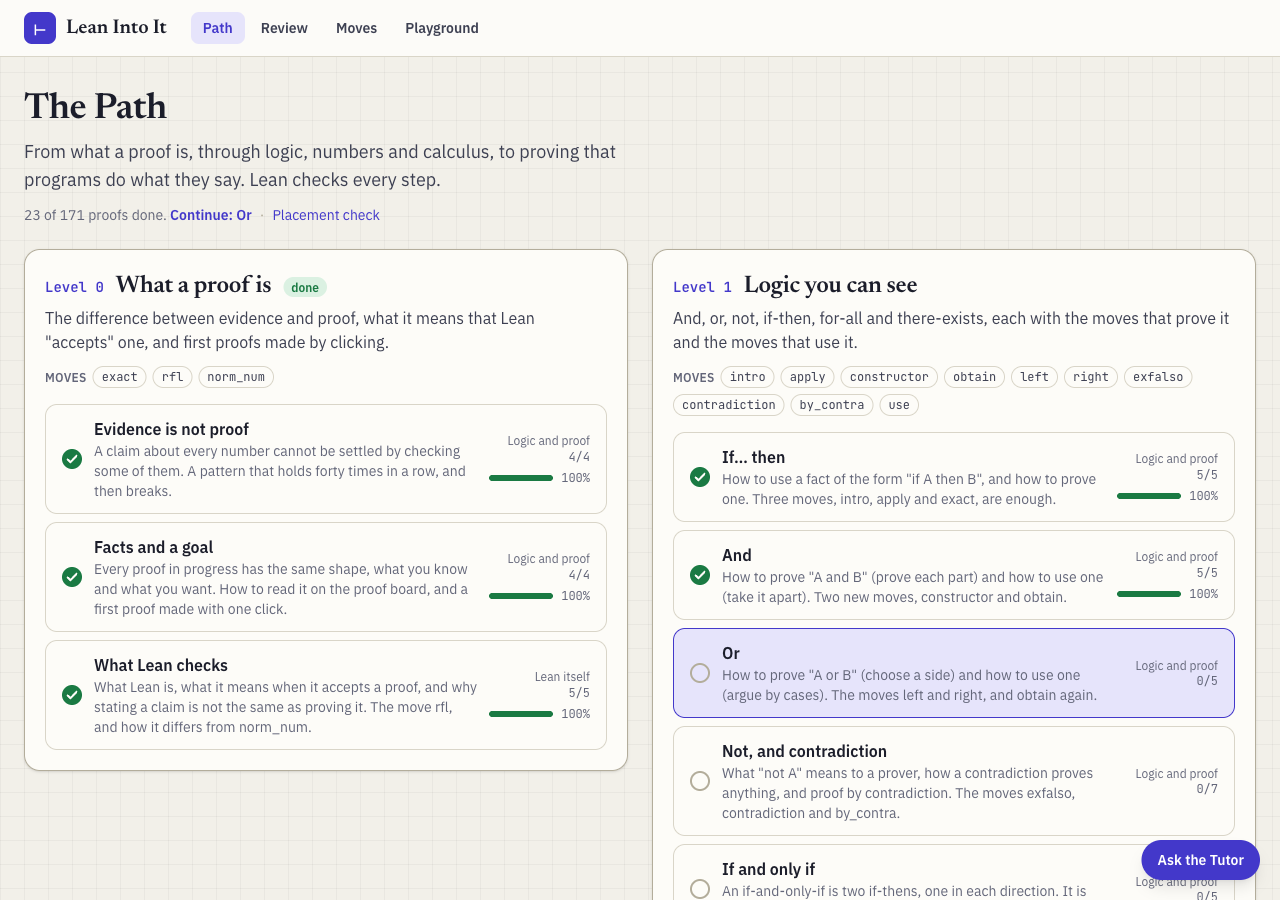
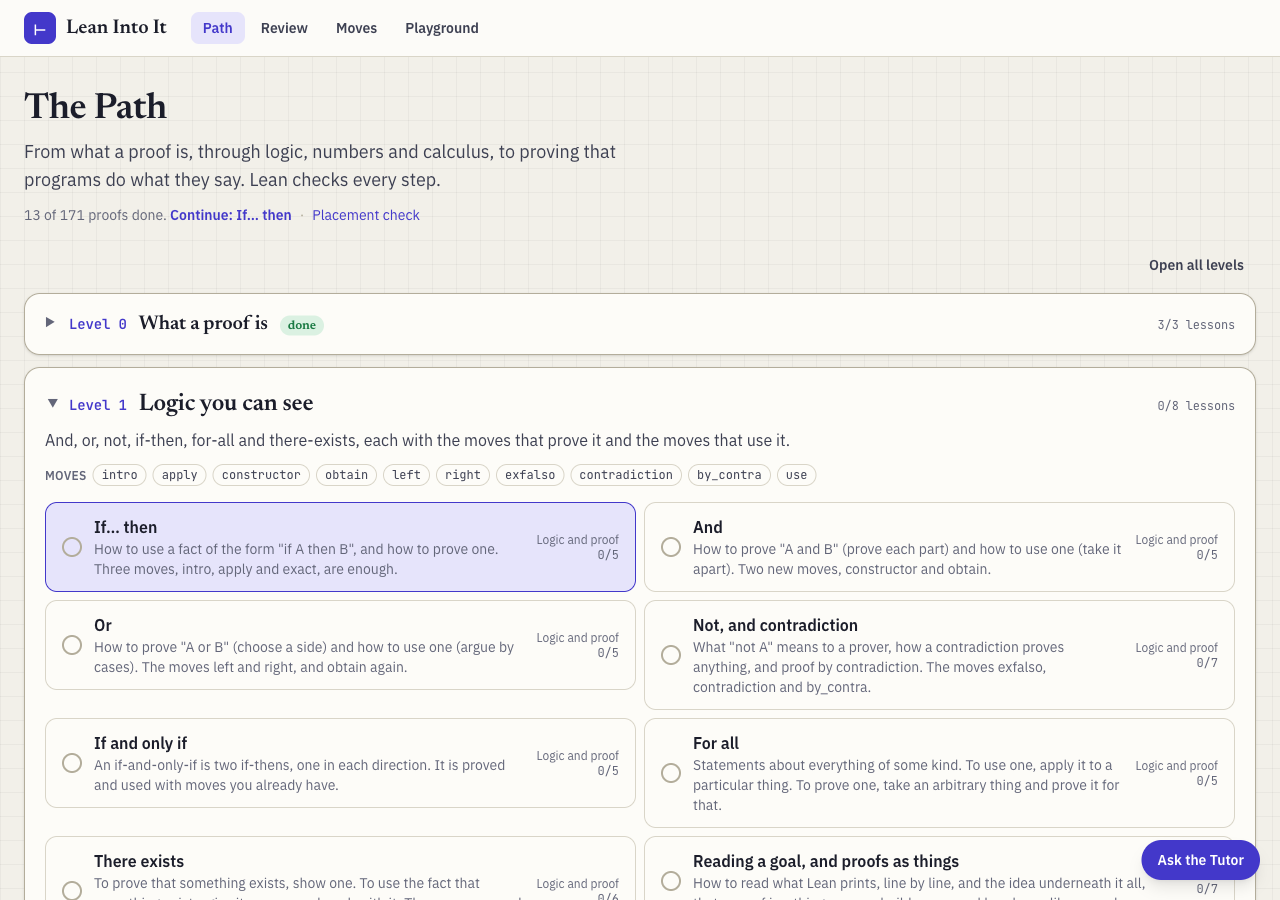
Path: one level to a row; review hardening; README screenshot retaken

diff --git a/web/src/pages/Home.tsx b/web/src/pages/Home.tsx
@@ -41,14 +41,17 @@ export function Home() {
     }
   });
   const [folds, setFolds] = useState(readFolds);
-  const keepFolds = (next: Record<string, boolean>) => {
-    setFolds(next);
-    try {
-      localStorage.setItem(FOLD_KEY, JSON.stringify(next));
-    } catch {
-      // Not kept: the page starts from its own choice next time.
-    }
-  };
+  // Each change is made to the choices as they are then, not as they were when the page was last drawn.
+  const changeFolds = (change: (kept: Record<string, boolean>) => Record<string, boolean>) =>
+    setFolds((kept) => {
+      const next = change(kept);
+      try {
+        localStorage.setItem(FOLD_KEY, JSON.stringify(next));
+      } catch {
+        // Not kept: the page starts from its own choice next time.
+      }
+      return next;
+    });
   const firstRun = !placed && Object.keys(mastery.concepts).length === 0;
   useEffect(() => void reloadProgress(), [reloadProgress]);
   // The first lesson not done in an open level, passing over any the
@@ -129,16 +132,15 @@ export function Home() {
           type="button"
           data-levels-all
           className="rounded-lg px-3 py-1.5 text-sm font-semibold text-fg-2 hover:bg-raised"
-          onClick={() => keepFolds(Object.fromEntries(content.levels.map((l) => [l.id, !allUnfolded])))}
+          onClick={() => changeFolds(() => Object.fromEntries(content.levels.map((l) => [l.id, !allUnfolded])))}
         >
           {allUnfolded ? "Close all levels" : "Open all levels"}
         </button>
       </div>
 
-      {/* Two columns where there is room; levels read left to right, then down.
-          An unfolded level takes the whole row, with its lessons in two columns,
-          so the folded ones pair up beside each other and leave no hole. */}
-      <div className="grid items-start gap-4 xl:grid-cols-2">
+      {/* One level to a row, in order, so folding one never moves another
+          sideways. An unfolded level's lessons go in two columns where there is room. */}
+      <div className="flex flex-col gap-3">
         {content.levels.map((level) => (
           <LevelCard
             key={level.id}
@@ -147,7 +149,7 @@ export function Home() {
             lessons={content.lessons.filter((l) => l.level === level.id)}
             nextId={next?.id ?? null}
             unfolded={unfolded(level)}
-            onFold={(to) => keepFolds({ ...folds, [level.id]: to })}
+            onFold={(to) => changeFolds((kept) => ({ ...kept, [level.id]: to }))}
           />
         ))}
       </div>
@@ -182,7 +184,7 @@ function LevelCard({
       data-level={level.id}
       data-level-state={written ? (status?.state ?? "open") : "outline"}
       data-level-unfolded={unfolded}
-      className={cx("rounded-2xl border bg-panel", unfolded && "xl:col-span-2", lit ? "border-line-strong shadow-sm" : "border-line")}
+      className={cx("rounded-2xl border bg-panel", lit ? "border-line-strong shadow-sm" : "border-line")}
     >
       {/* The whole heading is the control. The h2 keeps the level in the page's outline. */}
       <h2>

diff --git a/README.md b/README.md
@@ -39,7 +39,7 @@ This is an early build. Five of the six features below work today; the live proo
   </tr>
   <tr>
     <td width="50%" valign="top">
-      <img src="docs/screenshots/guided-path.png" alt="The Path page: Levels 0 and 1 with their lessons and progress" width="100%">
+      <img src="docs/screenshots/guided-path.png" alt="The Path page: Level 0 done and folded, Level 1 open with its lessons" width="100%">
       <br><sub><i>The Path: nine levels, from what a proof is to how large formalisations are built.</i></sub>
       <h3>A guided path</h3>
       <p>Levels 0 to 8 in four linked tracks: logic and proof, a maths refresher towards calculus, Lean itself, and verified programs. Levels 0 to 3 are written; the rest are outlined. A level opens when enough of the one before it is mastered, a placement check lets you skip what you know, and what you have learned comes back for review.</p>

diff --git a/docs/STATUS.md b/docs/STATUS.md
@@ -201,9 +201,8 @@ Landed in the first PR, the foundation slice:
 - Levels fold on the Path (`lii-091`): a level's heading opens and closes
   it. Until the learner says otherwise, only the level with the next
   lesson in it is open; a closed one keeps its number, title, state and
-  count of lessons done. An open level takes the whole row, with its
-  lessons in two columns where there is room, and closed ones sit two to a
-  row. What is opened and closed is kept in the browser (`localStorage`),
+  count of lessons done. Levels are one to a row; an open one has its
+  lessons in two columns where there is room. What is opened and closed is kept in the browser (`localStorage`),
   and one control opens or closes them all.
 - Placement check (`lii-zjf.4`, `#/placement`, `web/shared/placement.ts`):
   offered on the Path at first run (nothing tried, no placement), and
